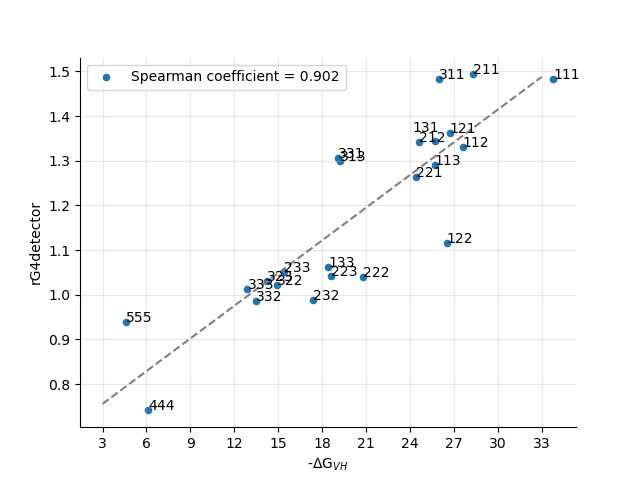
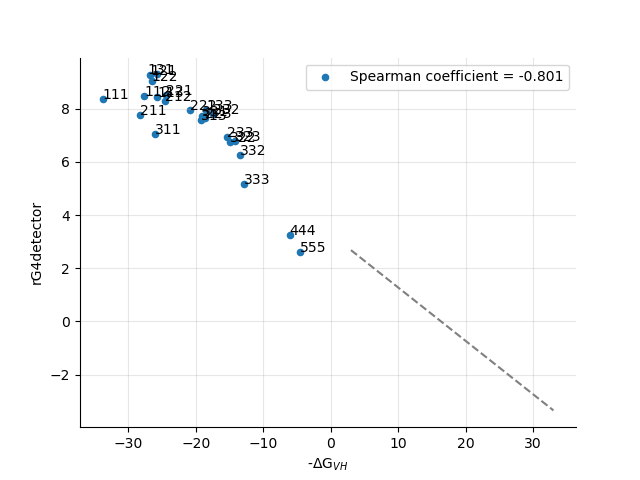
...

diff --git a/code/interpretation.py b/code/interpretation.py
@@ -62,7 +62,7 @@ def loop_length_test(model, data_size, output):
 
 def loop_length_test2(model, data_size, output=None, save_data=True):
     data = pd.read_csv("../interpretation/amy_data.csv", index_col="loop")
-    data["Delta Gvh"] = -data["Delta Gvh"]
+    data["Delta Gvh"] = data["Delta Gvh"]
 
     for idx in data.index:
         loop_length_l = list(idx)
@@ -89,7 +89,7 @@ def loop_length_test2(model, data_size, output=None, save_data=True):
              '--', c="0.5")
 
     plt.xlabel(r'-$\Delta$G$_V$$_H$')
-    plt.xticks(x_range)
+    # plt.xticks(x_range)
     plt.legend([f"Spearman coefficient = {round(sp_coef, 3)}"])
     plt.grid(alpha=0.3)
     ax.spines['top'].set_visible(False)
@@ -203,26 +203,29 @@ def mutation_map_test(model, data_size, output):
     if PLOT:
         plt.show()
 
-# def loc_check(model):
-#     for j in range(1, 6):
-#         print(j)
-#         seq = "GGG" + "N"*j + "GGG" + "N"*j + "GGG" + "N"*j + "GGG"
-#         seqs = []
-#         for k in range(150-len(seq)):
-#             s = "N"*(150-len(seq)-k) + seq + "N"*k
-#             seqs.append(s)
-#         p = make_prediction(model, seqs)
-#         print(np.argmax(p, axis=0))
-#         print(p[60])
-#         plt.plot(range(150-len(seq)), p)
-#         plt.show()
+def loc_check(model, data_size):
+    for j in range(1, 6):
+        print(j)
+        seq = "GGG" + "N"*j + "GGG" + "N"*j + "GGG" + "N"*j + "GGG"
+        seqs = []
+        for k in range(data_size-len(seq)):
+            s = "N"*(data_size-len(seq)-k) + seq + "N"*k
+            seqs.append(s)
+        p = make_prediction(model, seqs)
+        print(np.argmax(p, axis=0))
+        plt.plot(range(data_size-len(seq)), p)
+        plt.show()
+seq = "TCCGGAACTTGCAACAGCTGTGTGTGGCTTGAAGGGAGATGAAGTGGTGAAGGCCTGGTTTCCACCGAAGCTCTCACAGCCCAGCCTTTCACTGTGTGGCCGGGGGAA" \
+      "GGGTGCTCCGGGTGGGGGACGGGAATGGTGGGACTGGGGATGCCACGGGACAAGGCTGCTGGCCTGGAAGGTAGTCACGTGGAGAACCGCAGGAGATGAGATTGGAAAG" \
+      "TAGTAATAAGCCATGTGGATAAGAACAGAGGAG"
+seq = seq[len(seq)//2-data_size//2:len(seq)//2+data_size//2]
 
 
 
 def main(model, output):
-    # loc_check(model)
-    # exit(0)
     data_size = get_input_size(model)
+    loc_check(model, data_size)
+    exit(0)
     loop_length_test(model, data_size, output)
     loop_length_test2(model, data_size, output)
     mutation_effect(model, data_size, output)

diff --git a/code/PARAMETERS.py b/code/PARAMETERS.py
@@ -10,7 +10,7 @@ REFERANCE_GENOME = GENOMES_FILE + "hg38.fa"
 # GENOMES_FILE = "big_files/"
 SCREENER_DETECTION_PATH = SCREENER_PATH + "detection/"
 SCREENER_DETECTION_PREDICTION_PATH = SCREENER_DETECTION_PATH + "transcripts_predictions/"
-ENSEMBLE_SIZE = 4
+ENSEMBLE_SIZE = 5
 NUM_OF_ENSEMBLE_ITERATIONS = 50
 MOUSE_PATH = "independent_datasets/mouse/"
 MOUSE_DATA_PATH = MOUSE_PATH + "Table_S1_mouse.csv"

diff --git a/code/train_rG4detector.py b/code/train_rG4detector.py
@@ -105,7 +105,7 @@ if __name__ == "__main__":
     np.random.seed(1)
 
     verb = 0
-    num_of_iterations = 15 #NUM_OF_ENSEMBLE_ITERATIONS
+    num_of_iterations = NUM_OF_ENSEMBLE_ITERATIONS
     num_of_models = 15
     DEBUG = False
     output = MODEL_PATH
